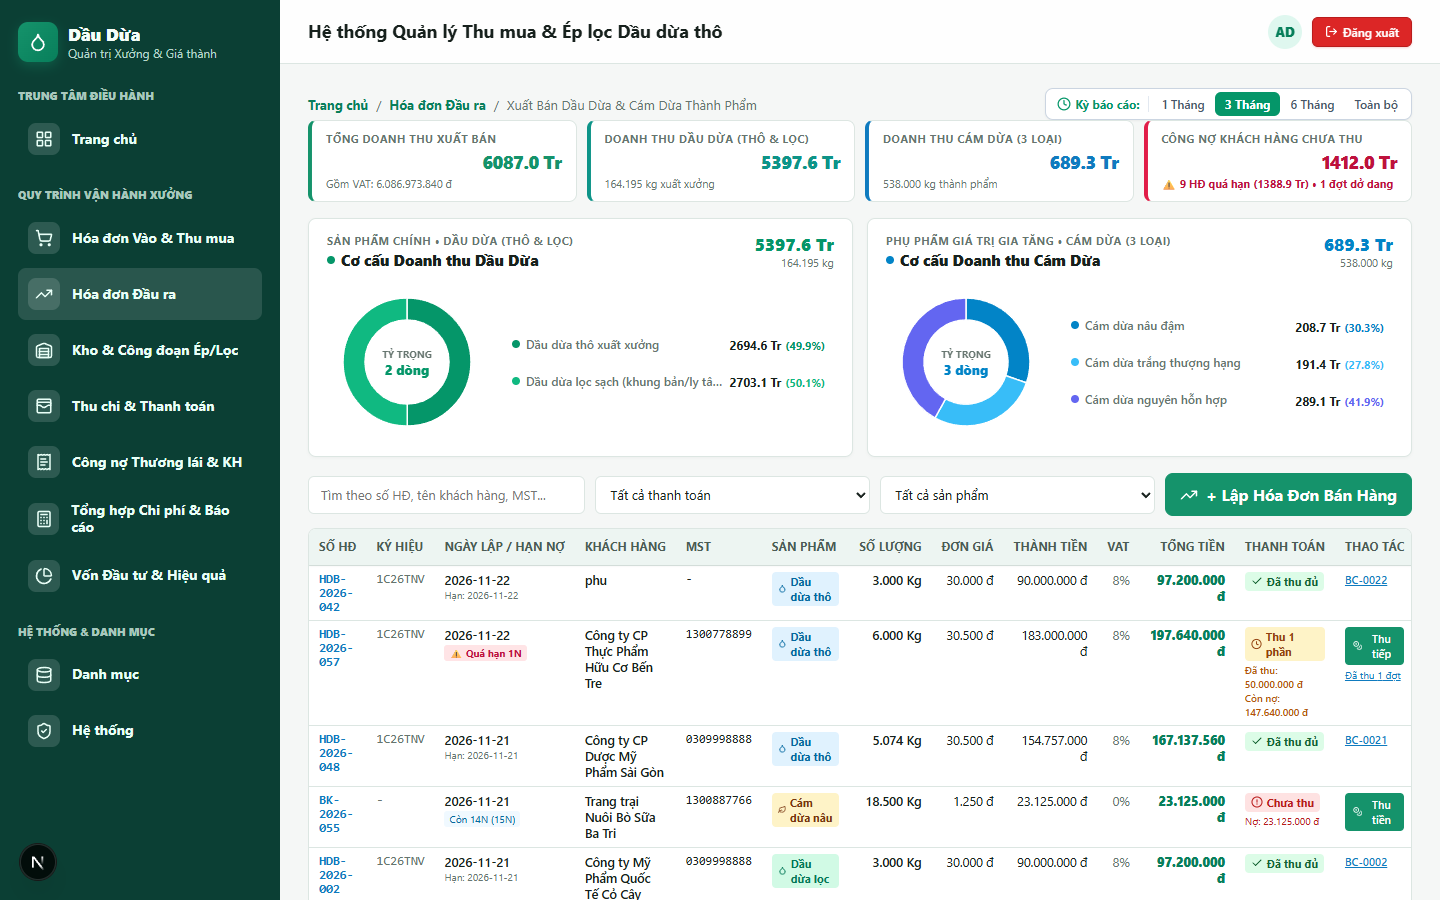
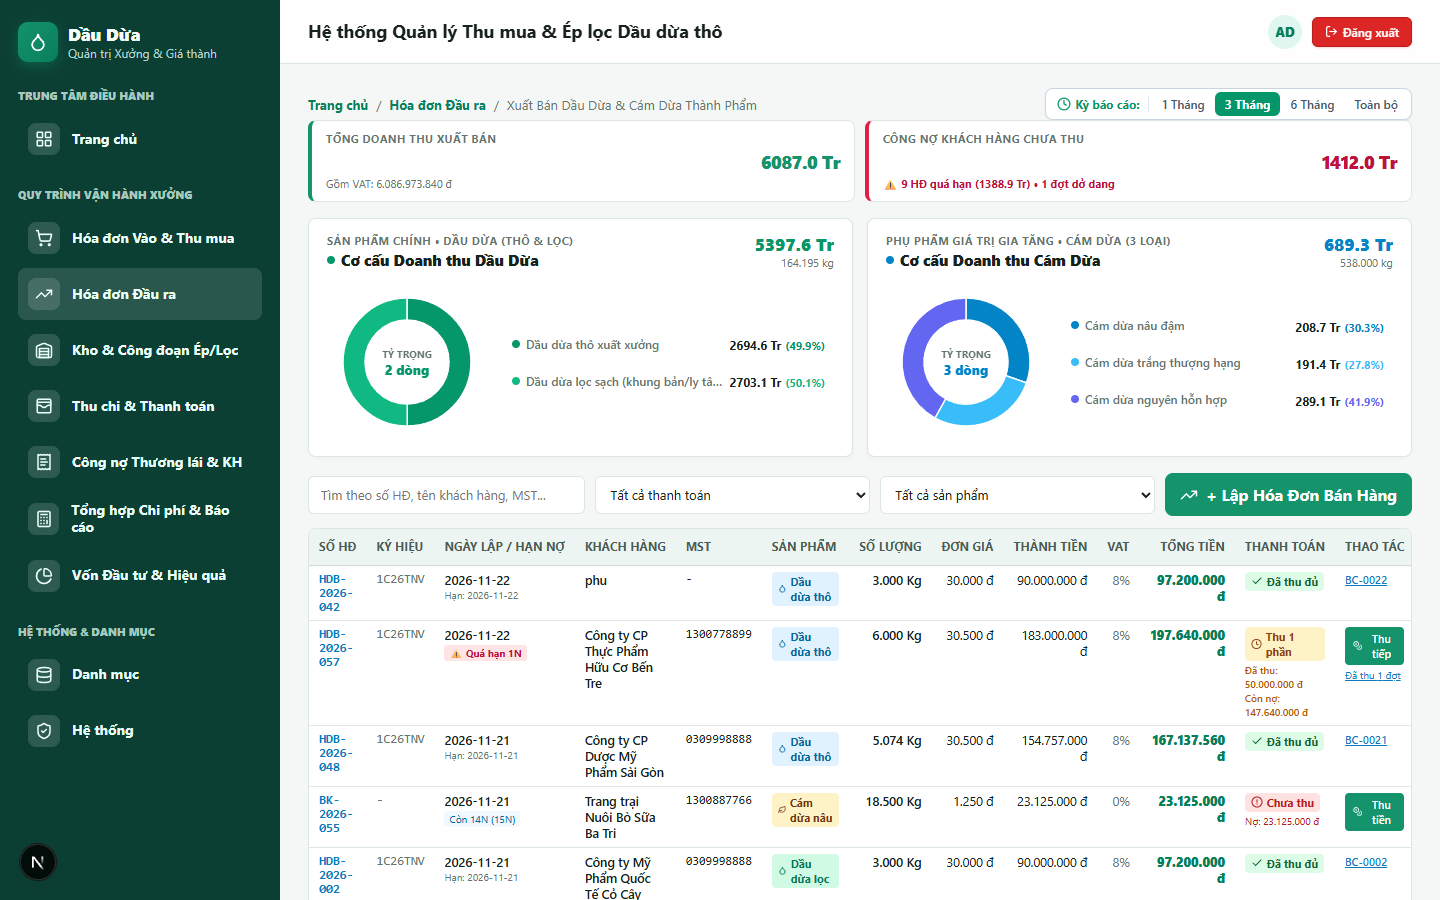
refactor(sales): remove redundant oil and meal KPI cards in favor of 2 donut charts

Changed region(s): [[0.3438, 0.1244, 0.9688, 0.2178], [0.8125, 0.1244, 0.9375, 0.1556]]

diff --git a/apps/web/screens/sales-invoice-screen.tsx b/apps/web/screens/sales-invoice-screen.tsx
@@ -351,25 +351,6 @@ export default function SalesInvoiceScreen() {
             <span className="kpi-sub">Gồm VAT: {(totalRevenue).toLocaleString("vi-VN")} đ</span>
           </div>
 
-          <div className="kpi-card-compact" style={{ borderLeft: "4px solid #0d9488" }}>
-            <span className="kpi-label">Doanh thu Dầu Dừa (Thô &amp; Lọc)</span>
-            <span className="kpi-value text-right" style={{ color: "#0d9488" }}>
-              {(oilRevenue / 1000000).toFixed(1)} Tr
-            </span>
-            <span className="kpi-sub">
-              {invoices.filter((i) => isOil(i.productType)).reduce((s, i) => s + i.quantity, 0).toLocaleString("vi-VN")} kg xuất xưởng
-            </span>
-          </div>
-
-          <div className="kpi-card-compact" style={{ borderLeft: "4px solid #0f7bbf" }}>
-            <span className="kpi-label">Doanh thu Cám Dừa (3 loại)</span>
-            <span className="kpi-value text-right" style={{ color: "#0f7bbf" }}>
-              {(mealRevenue / 1000000).toFixed(1)} Tr
-            </span>
-            <span className="kpi-sub">
-              {invoices.filter((i) => isMeal(i.productType)).reduce((s, i) => s + i.quantity, 0).toLocaleString("vi-VN")} kg thành phẩm
-            </span>
-          </div>
 
           <div className="kpi-card-compact" style={{ borderLeft: `4px solid ${overdueInvoices.length > 0 ? "#e11d48" : "#c77d14"}` }}>
             <span className="kpi-label">Công nợ khách hàng chưa thu</span>
